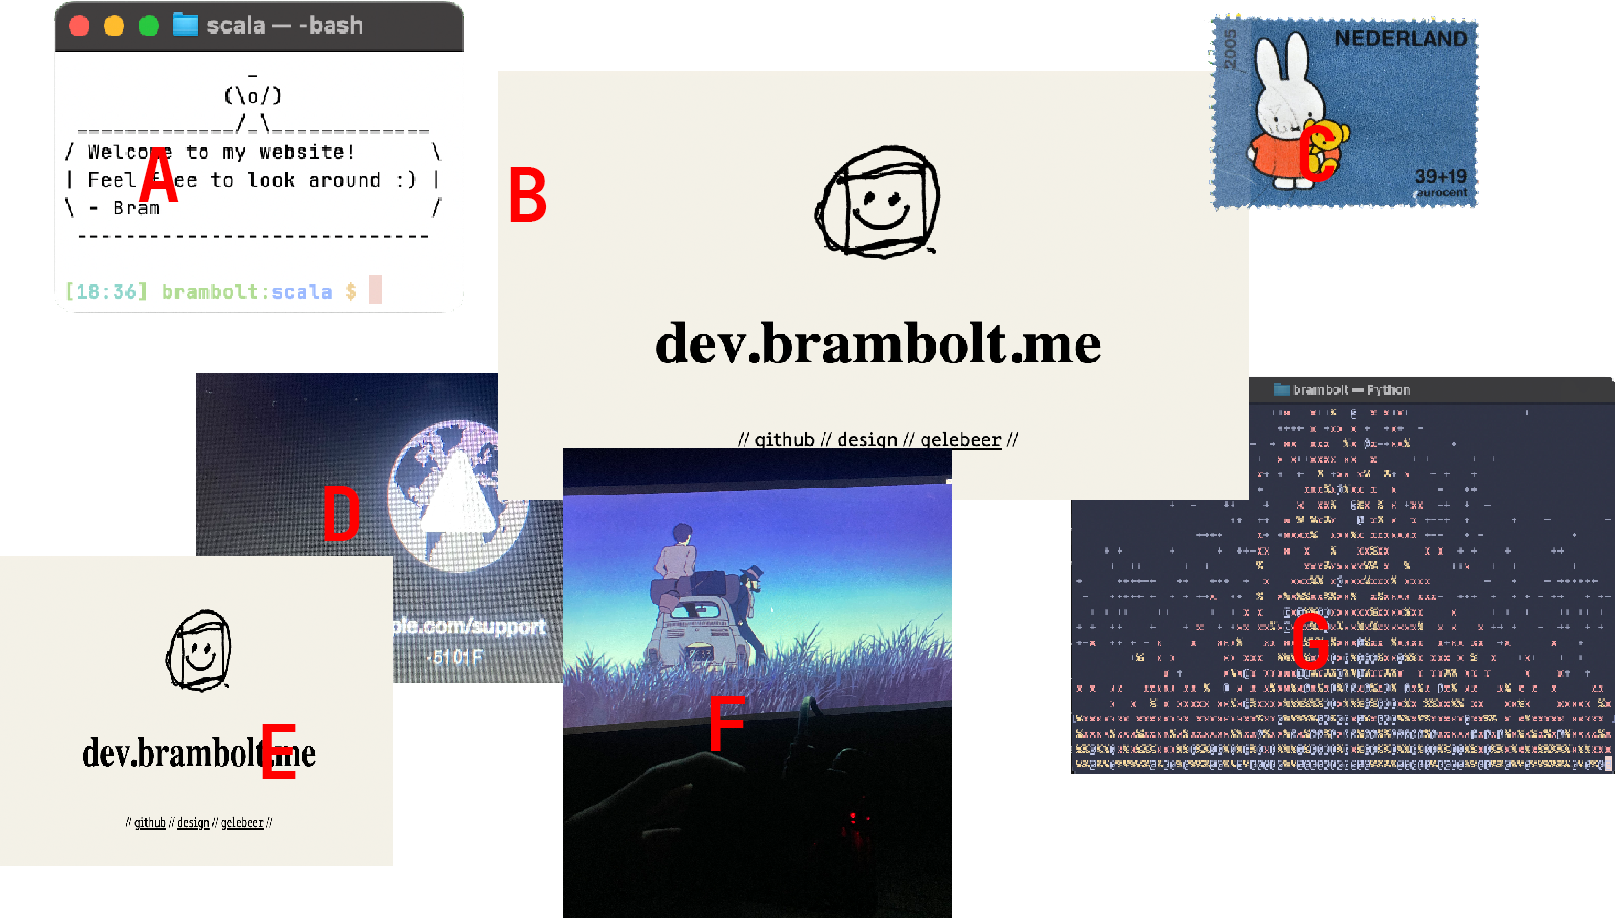
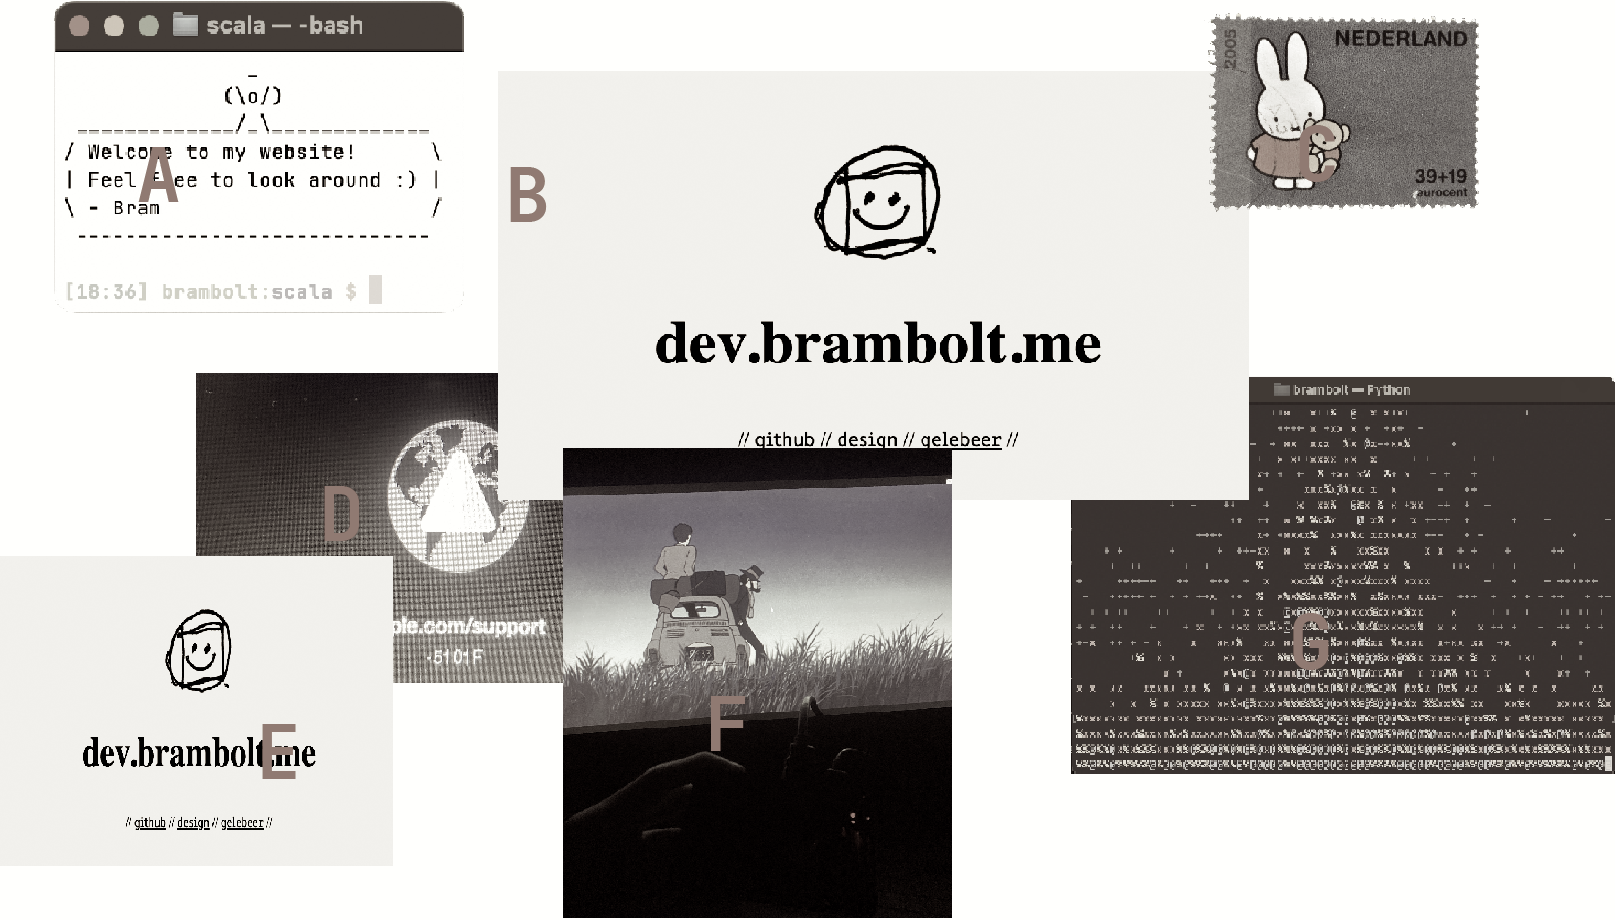
added static images

diff --git a/index.html b/index.html
@@ -28,11 +28,18 @@
                 <!-- 1 -->
                 <div class="element A">A</div>
                 <div class="element B">B</div>
-                <div class="element C">C</div>
+                <div class="element C">
+                    <img src=assets/miffy_stamp.png></img>
+                </div>
                 <!-- 2 -->
-                <div class="element D">D</div>
+                <div class="element D">                    
+                    <img src=assets/apple.png></img></div>
                 <div class="element E">E</div>
-                <div class="element F">F</div>
+                <div class="element F">
+                    <img src=assets/rasp_pi.png></img>
+
+                </div>
+                
                 <div class="element G">G</div>
       
         </div>

diff --git a/css/canvas.css b/css/canvas.css
@@ -40,7 +40,13 @@ body {
 }
 
 
-/* Individual Element Styles */
+.element img {
+    width: 100%;            
+    height: 100%;           
+    object-fit: fill;  
+    display: block;
+}
+
 /* Individual Element Styles */
 .A {
     --width: 410;
@@ -101,7 +107,7 @@ body {
     --height: 199;
     --margin-left: 1211;
     --margin-top: 12;
-    background-color: lightblue;
+
     z-index: 7; /* Topmost */
 }
 
